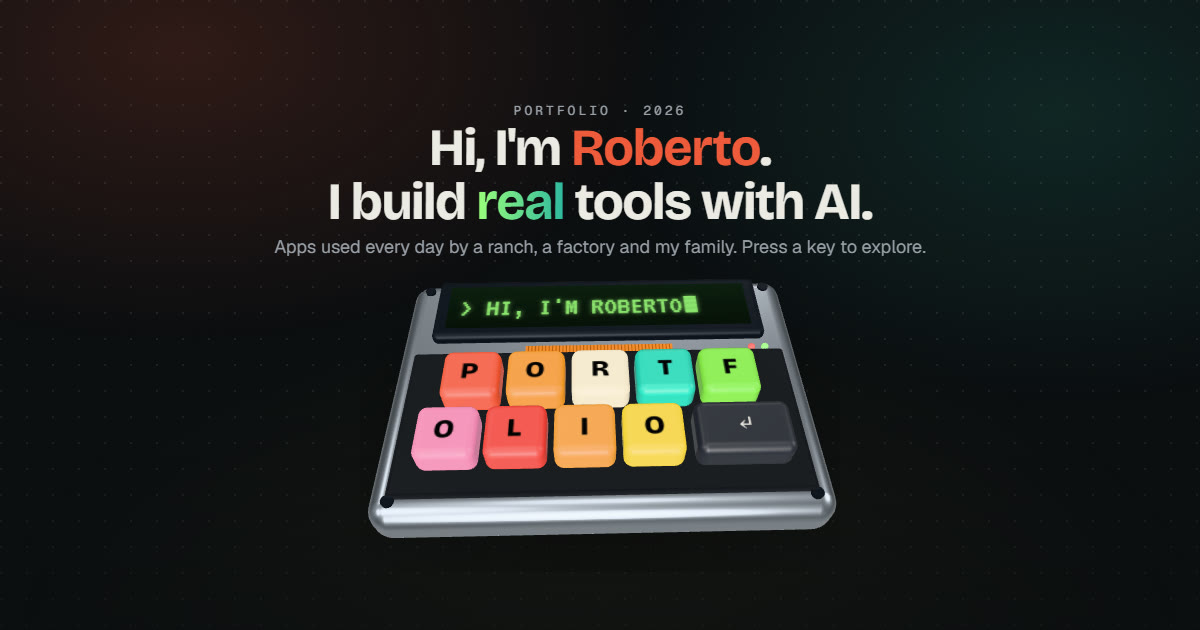
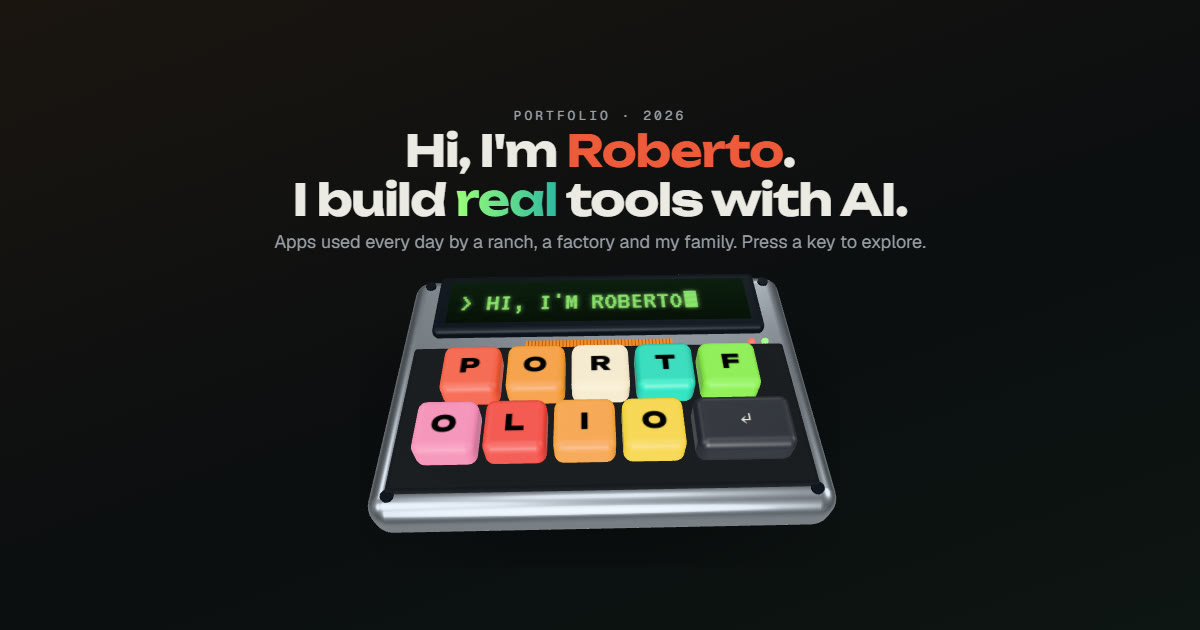
Vista previa para compartir con la letra y el fondo nuevos

Changed region(s): [[0.2158, 0.1508, 0.7708, 0.8746], [0.3392, 0.4524, 0.37, 0.4825]]

diff --git a/index.html b/index.html
@@ -10,7 +10,7 @@
 <meta property="og:description" content="I build real tools with AI.">
 <meta property="og:type" content="website">
 <meta property="og:url" content="https://rl7103405-gif.github.io/portfolio/">
-<meta property="og:image" content="https://rl7103405-gif.github.io/portfolio/assets/og-portfolio.jpg">
+<meta property="og:image" content="https://rl7103405-gif.github.io/portfolio/assets/og-portfolio.jpg?v=2">
 <meta property="og:image:width" content="1200">
 <meta property="og:image:height" content="630">
 <meta name="twitter:card" content="summary_large_image">
